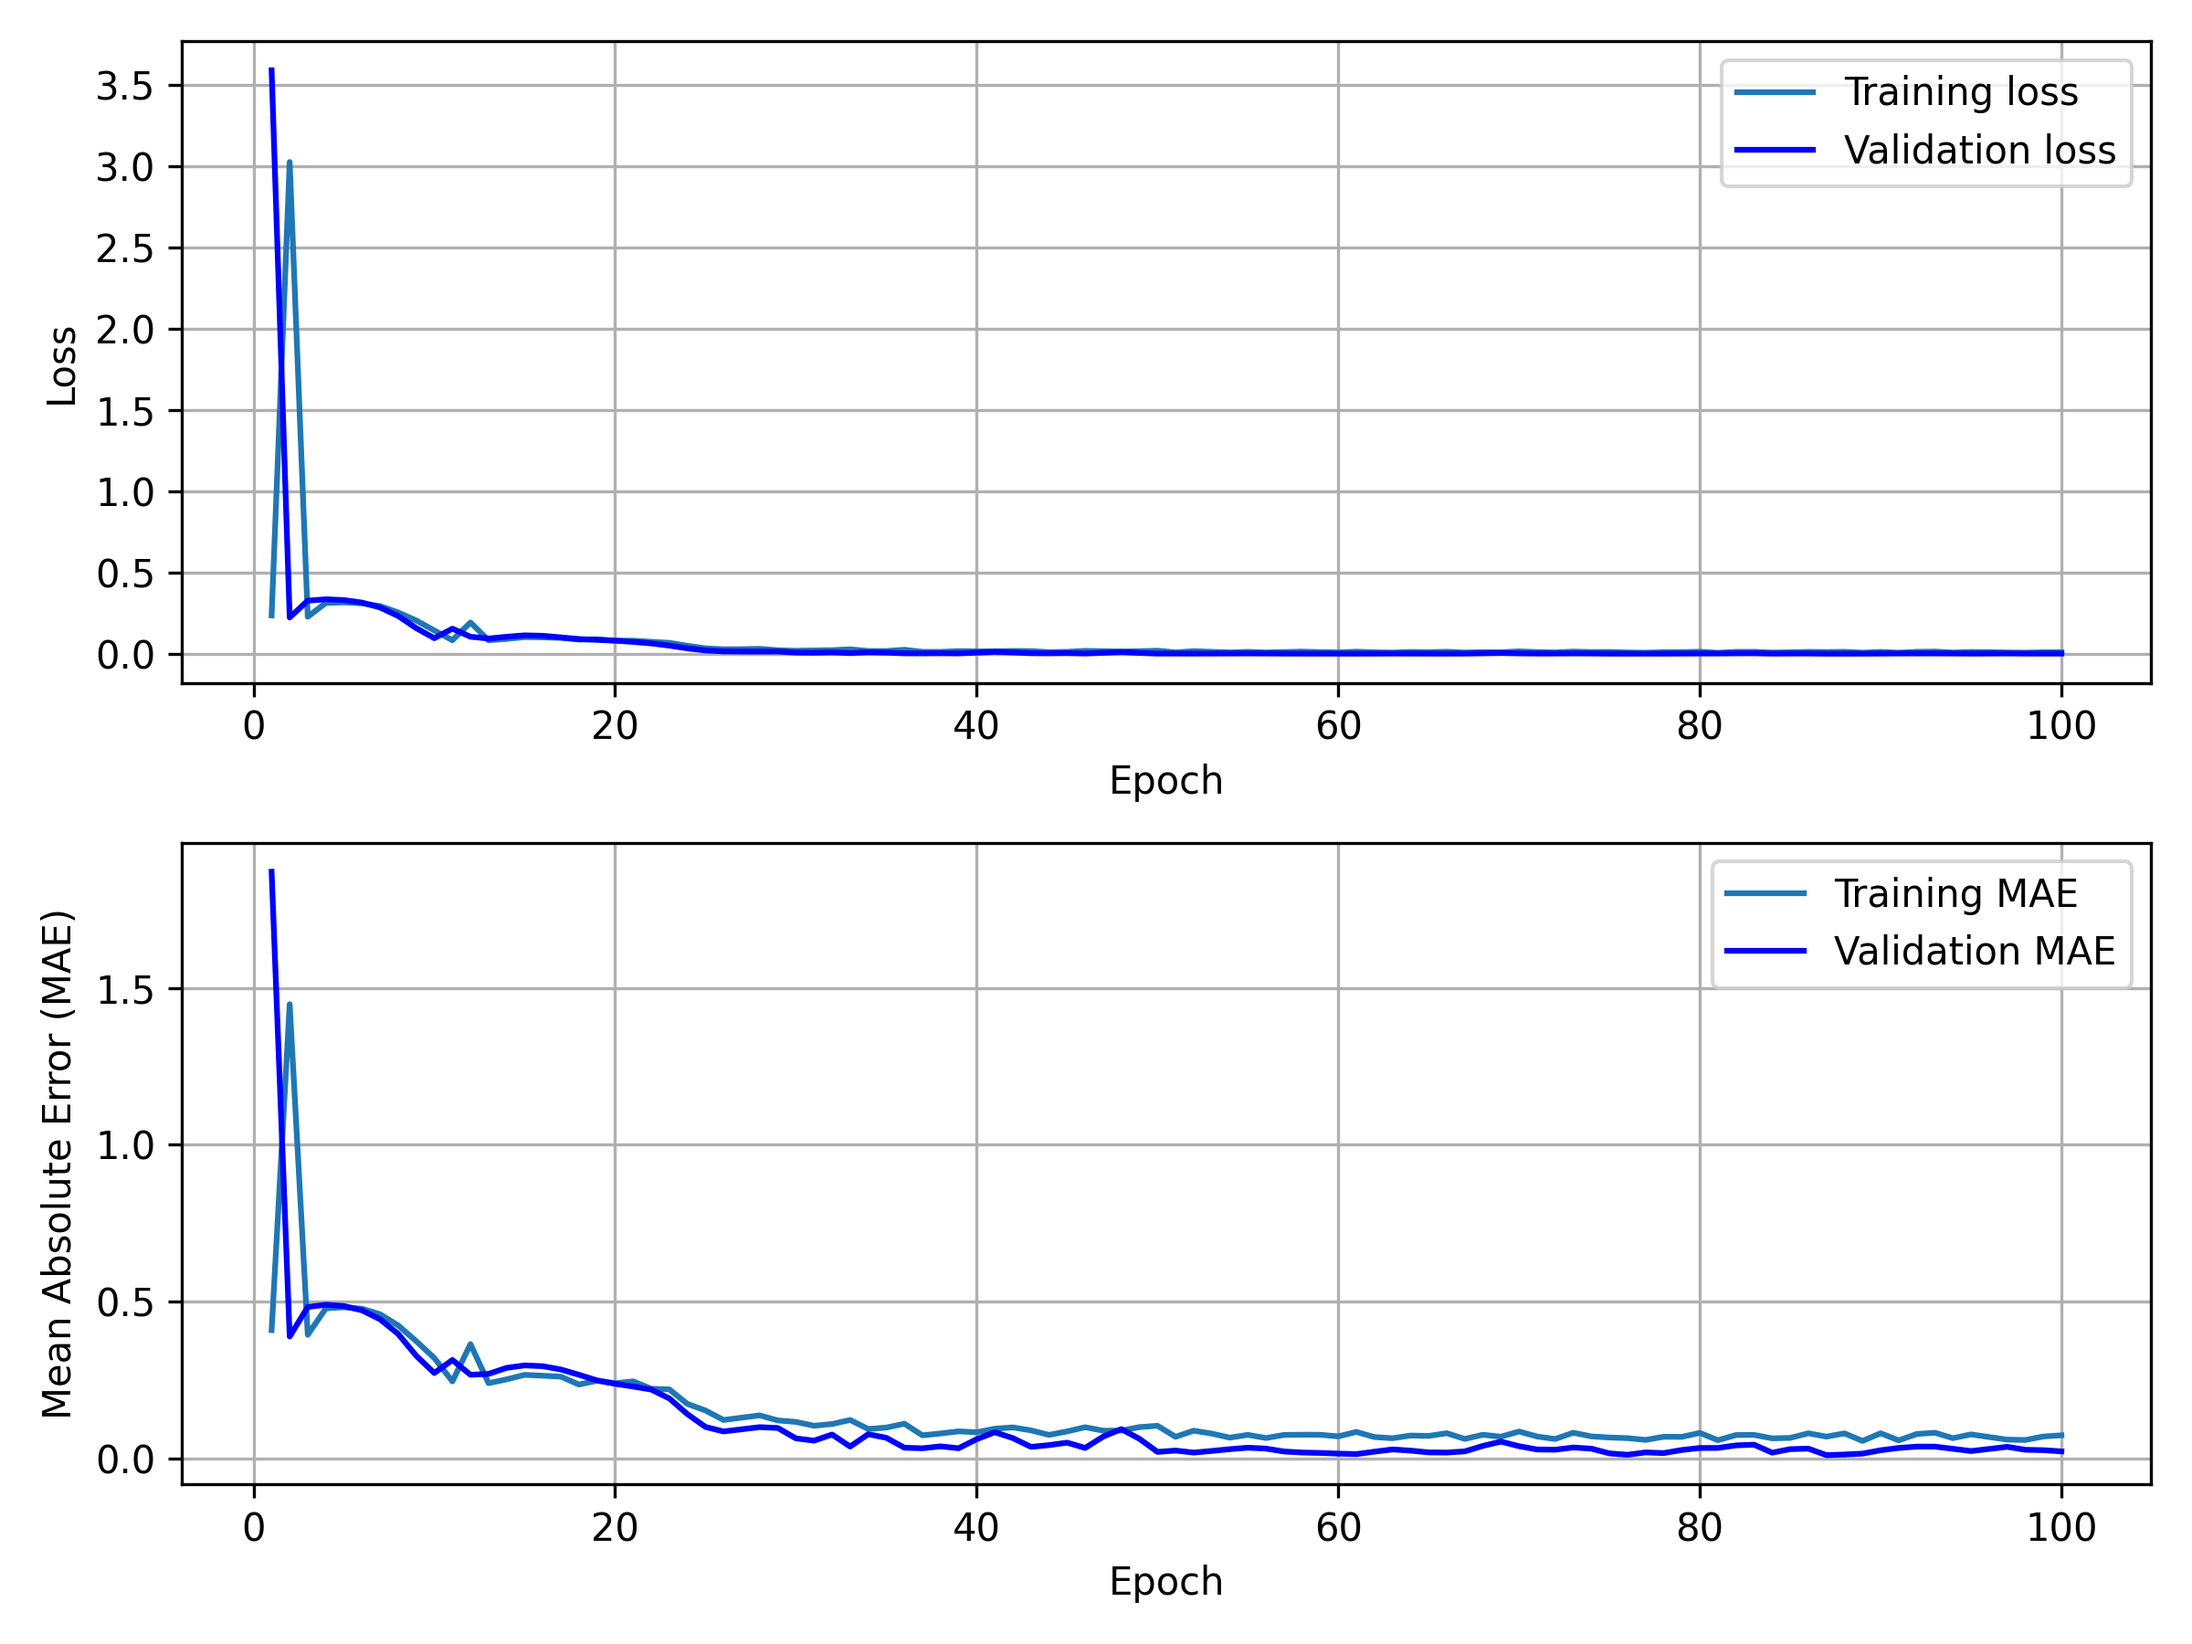
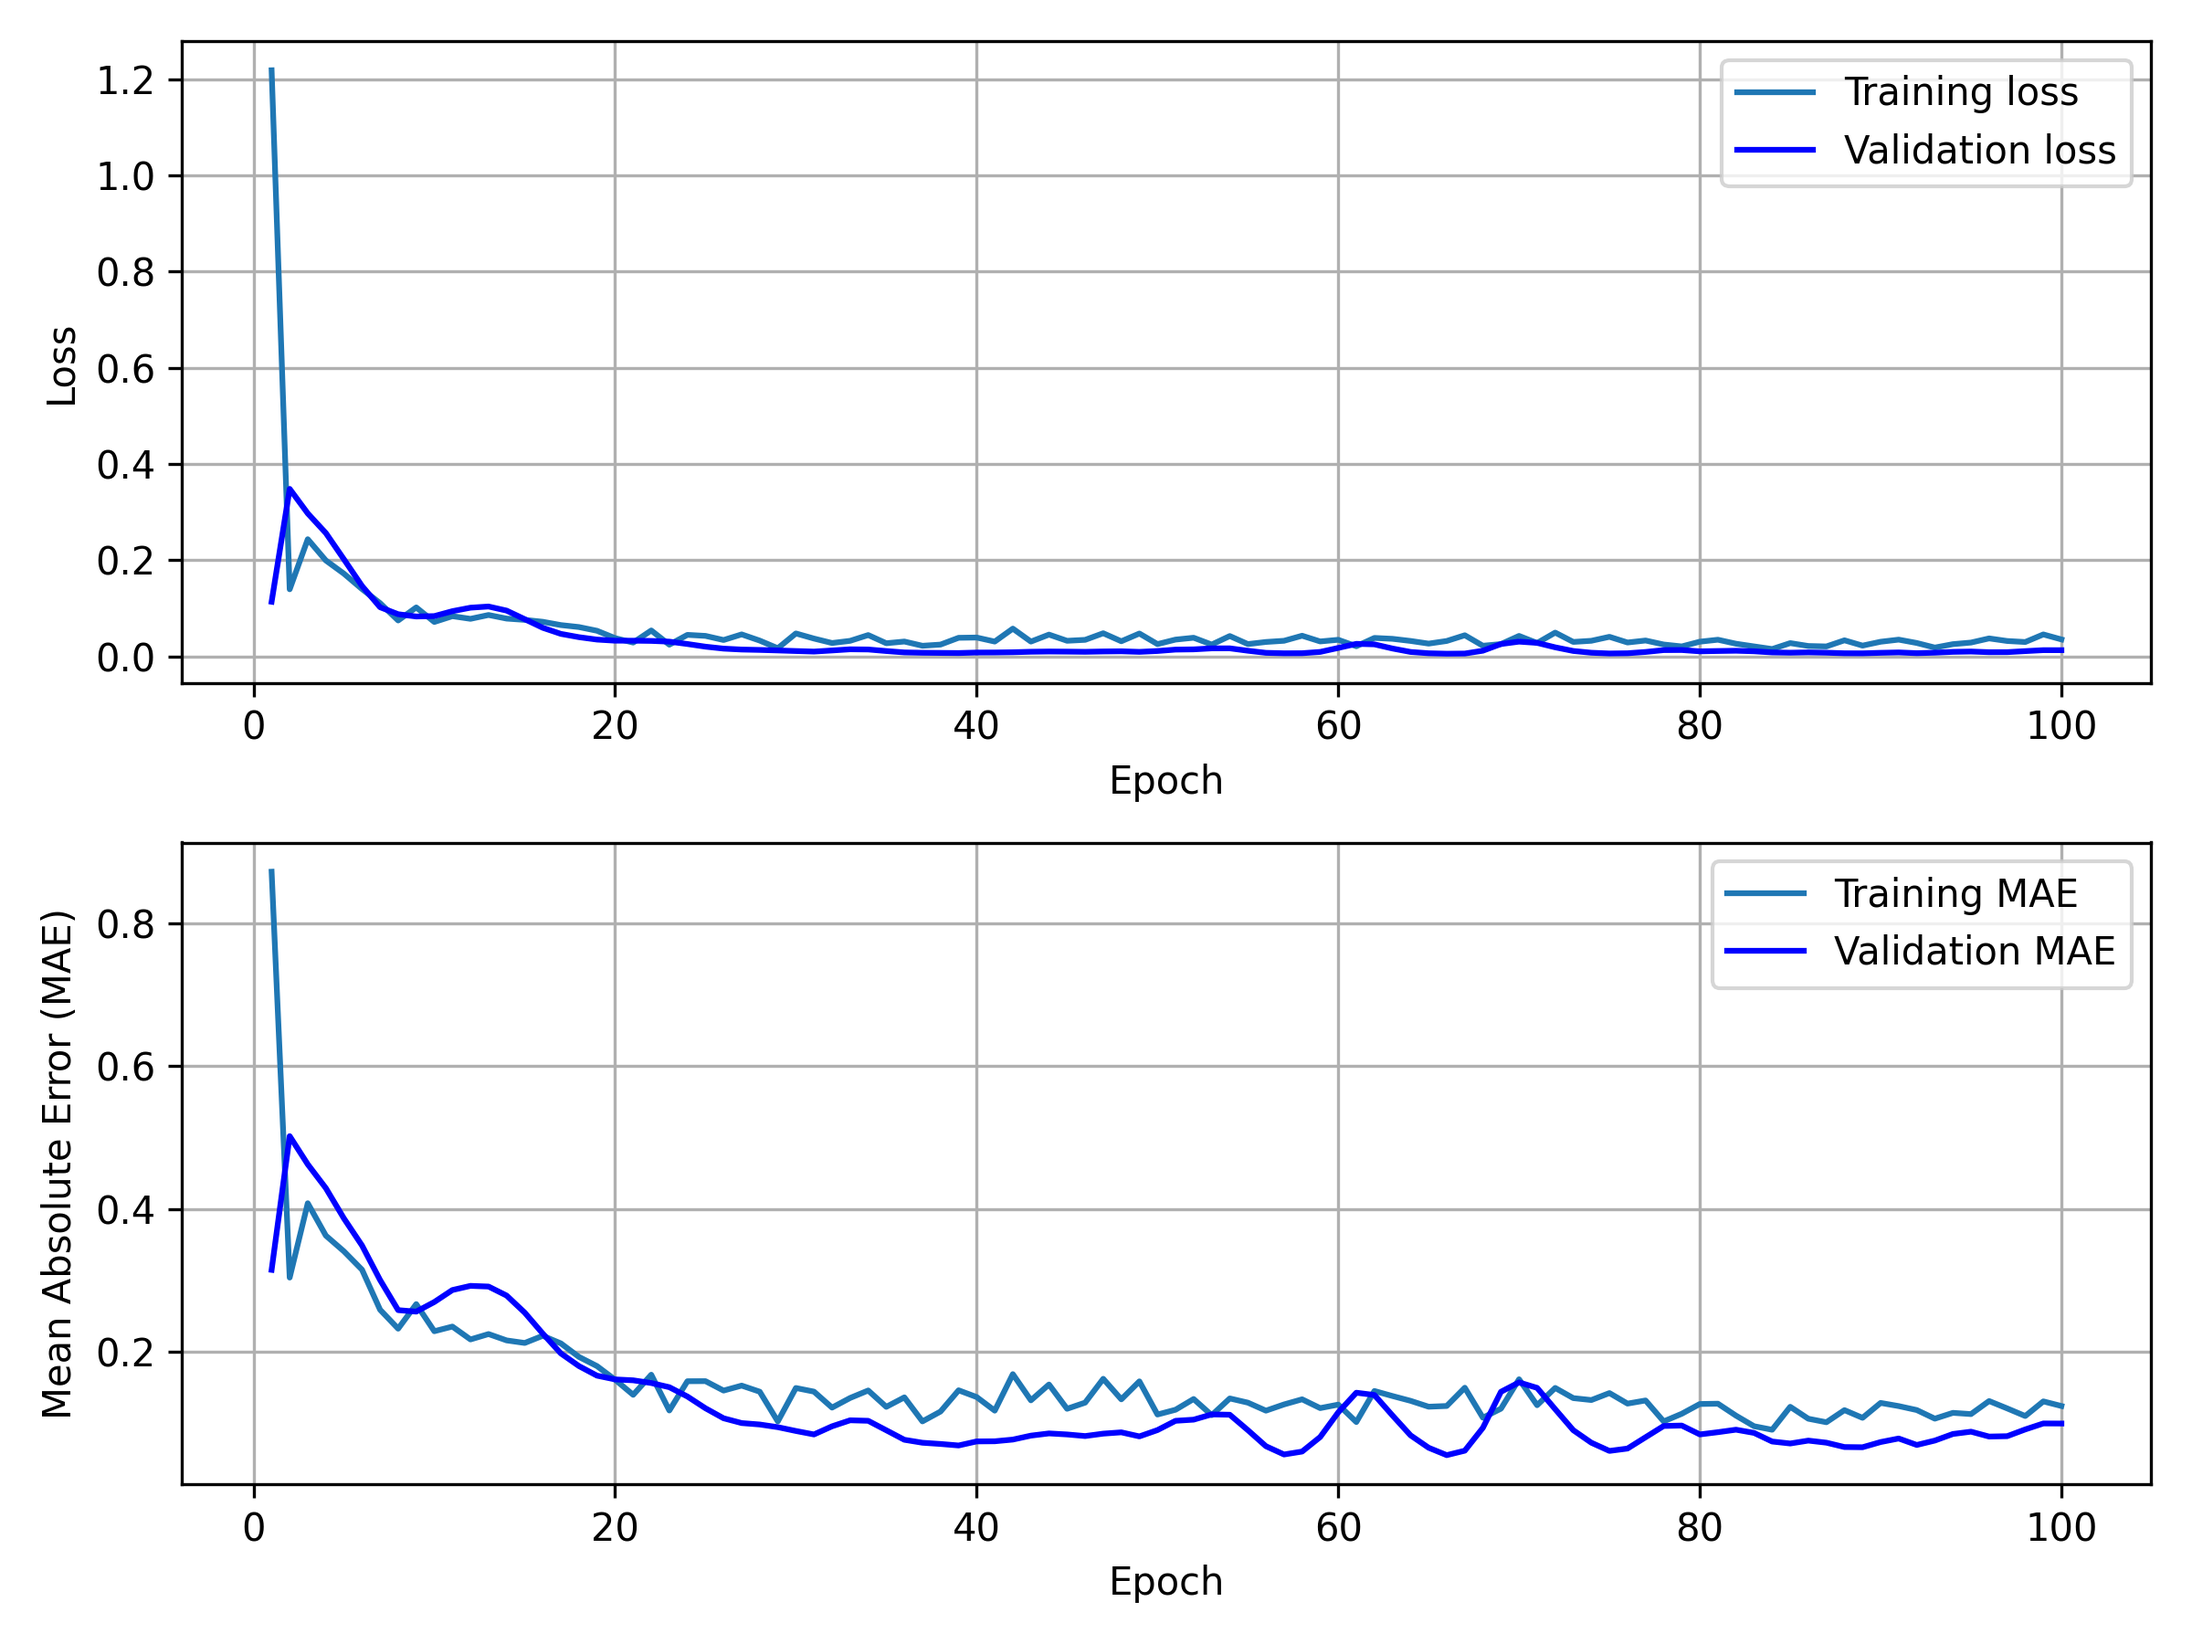
metrics image

diff --git a/gauge-level-regression.py b/gauge-level-regression.py
@@ -45,41 +45,28 @@ X_train, X_test, y_train, y_test = train_test_split(images, labels, test_size=0.
 
 # Define Model
 model = tf.keras.models.Sequential([
-    tf.keras.layers.Conv2D(32, (3, 3), activation='relu', input_shape=(IMG_HEIGHT, IMG_WIDTH, CHANNELS)),
+    tf.keras.layers.Input(shape=(IMG_HEIGHT, IMG_WIDTH, CHANNELS)),
+    tf.keras.layers.Conv2D(32, (3, 3), activation='relu'),
     tf.keras.layers.MaxPooling2D((2, 2)),
 
     tf.keras.layers.Conv2D(64, (3, 3), activation='relu'),
     tf.keras.layers.MaxPooling2D((2, 2)),
 
-    tf.keras.layers.Conv2D(128, (3, 3), activation='relu'),
-    tf.keras.layers.MaxPooling2D((2, 2)),
-
-    tf.keras.layers.Conv2D(256, (3, 3), activation='relu'),
-    tf.keras.layers.MaxPooling2D((2, 2)),
-
     tf.keras.layers.Flatten(),
-    tf.keras.layers.Dense(256, activation='relu'),
+
     tf.keras.layers.Dense(128, activation='relu'),
     tf.keras.layers.Dropout(0.5),
 
     tf.keras.layers.Dense(1)  # Single output neuron for regression
 ])
 
-model.compile(optimizer='adam',
-              loss='mean_squared_error',
-              metrics=['mae'])  # Mean Absolute Error as additional metric
+model.compile(optimizer='adam', loss='mean_squared_error', metrics=['mae'])  # Mean Absolute Error as additional metric
 
 # Print the model summary
 model.summary()
 
-# Train the model
-EPOCHS = 100
-BATCH_SIZE = 32
 
-history = model.fit(X_train, y_train,
-                    epochs=EPOCHS,
-                    batch_size=BATCH_SIZE,
-                    validation_data=(X_test, y_test))
+history = model.fit(X_train, y_train, epochs=100, batch_size=32, validation_data=(X_test, y_test))
 
 # Evaluate the model
 test_loss, test_mae = model.evaluate(X_test, y_test)
@@ -127,3 +114,4 @@ axs[1].legend(loc='best')
 plt.tight_layout()
 plt.savefig("images/metrics.png", dpi=300)
 plt.show()
+

diff --git a/gauge-levels-classifier.py b/gauge-levels-classifier.py
@@ -14,8 +14,8 @@ IMAGES_PATH = 'images/generated/gauges/'
 LABELS_CSV = 'images/generated/labels.csv'
 
 # Image parameters
-IMG_HEIGHT = 224
-IMG_WIDTH = 224
+IMG_HEIGHT = 96
+IMG_WIDTH = 96
 CHANNELS = 1
 
 # Read labels CSV
@@ -47,7 +47,8 @@ X_train, X_test, y_train, y_test = train_test_split(images, labels, test_size=0.
 
 # Model definition
 model = tf.keras.models.Sequential([
-    tf.keras.layers.Conv2D(32, (3, 3), activation='relu', input_shape=(IMG_HEIGHT, IMG_WIDTH, CHANNELS)),
+    tf.keras.layers.Input(shape=(IMG_HEIGHT, IMG_WIDTH, CHANNELS)),
+    tf.keras.layers.Conv2D(32, (3, 3), activation='relu'),
     tf.keras.layers.MaxPooling2D((2, 2)),
 
     tf.keras.layers.Conv2D(64, (3, 3), activation='relu'),
